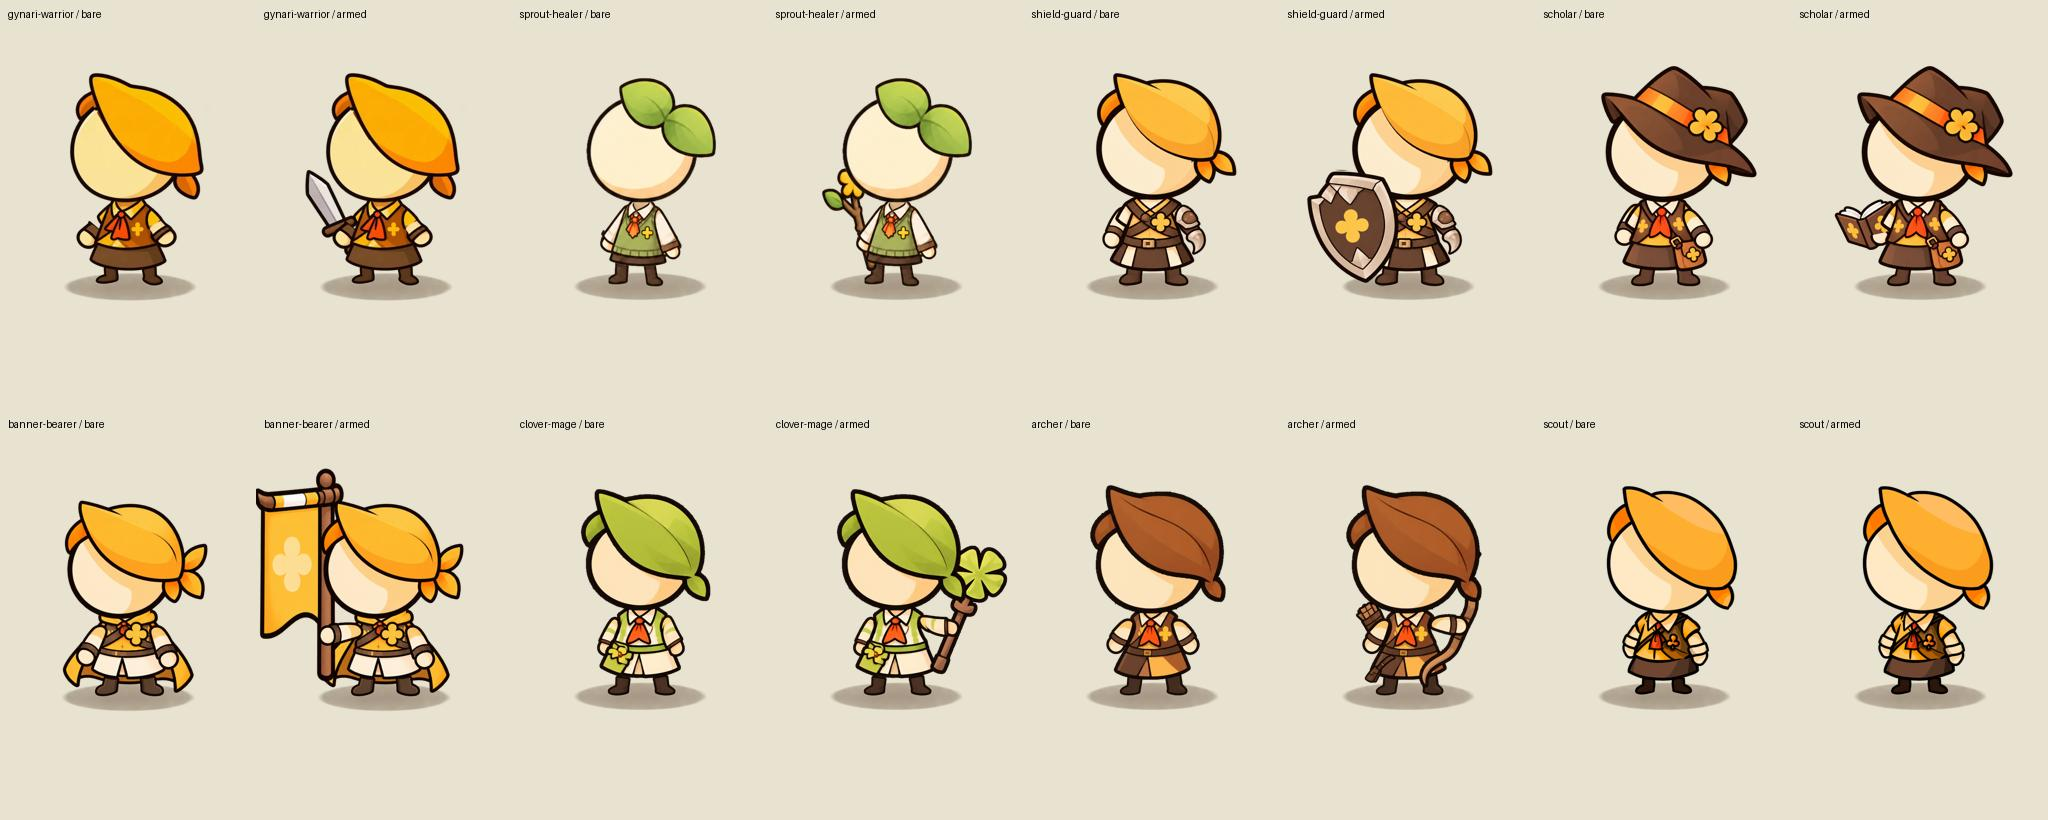
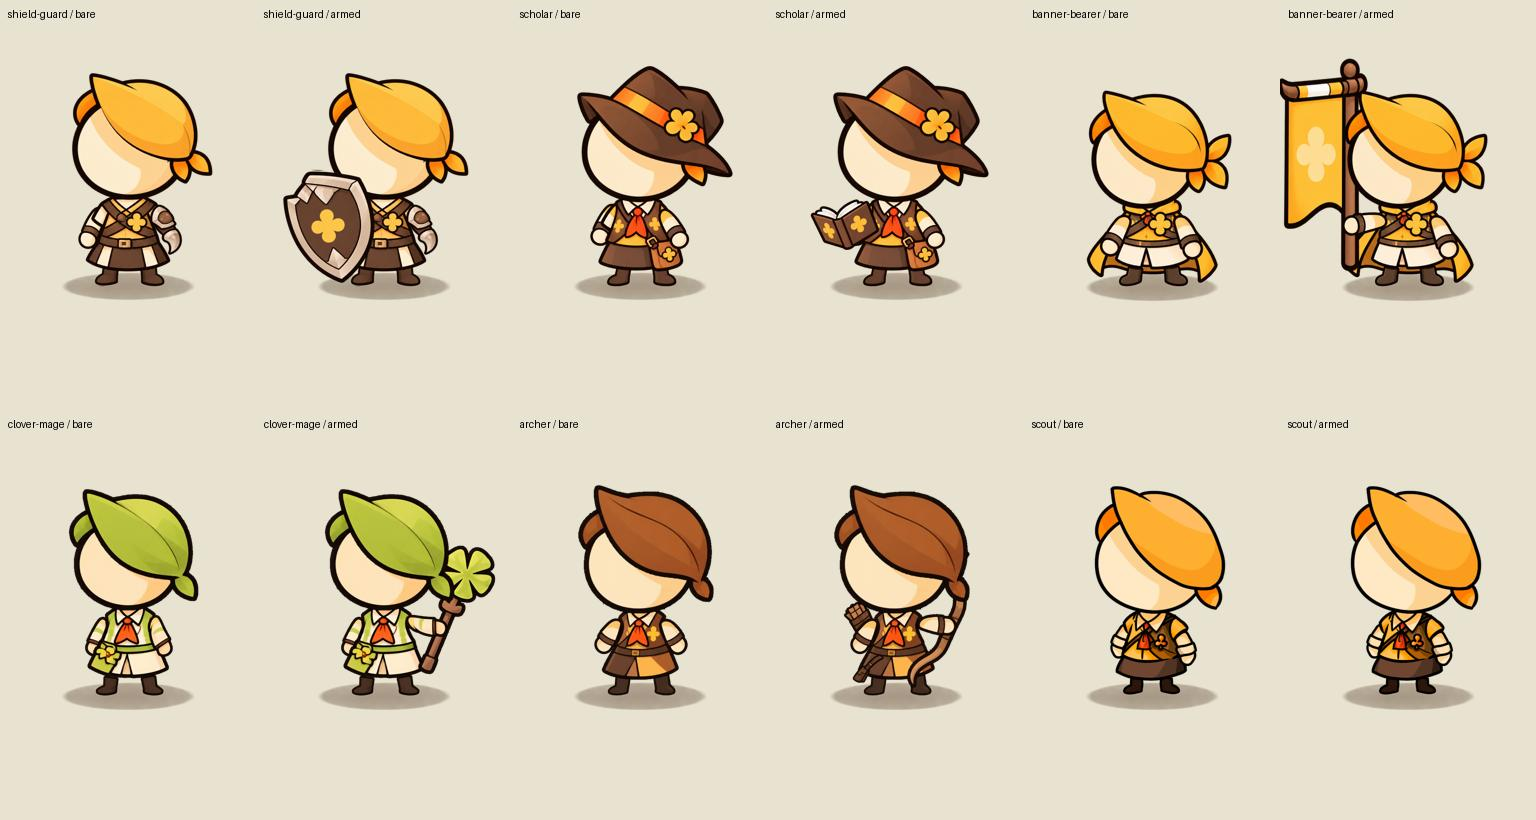
fix: render books in foreground and hide legacy heroes from current UI

diff --git a/index.html b/index.html
@@ -5,7 +5,7 @@
   <meta name="viewport" content="width=device-width, initial-scale=1, viewport-fit=cover">
   <meta name="theme-color" content="#f2e9d8">
   <title>도라가미 · 첫 번째 전장</title>
-  <link rel="icon" type="image/webp" href="./assets/units/gynari-warrior/head_deco.webp">
+  <link rel="icon" type="image/png" href="./assets/units/shield-guard/head_deco_overlay.png">
   <link rel="stylesheet" href="./src/style.css">
 </head>
 <body>
@@ -25,9 +25,9 @@
   <footer class="command-area">
     <p id="notice" role="status" aria-live="polite">전장을 준비하고 있어요…</p>
     <div class="command-bar">
-      <div class="selection"><img src="./assets/units/gynari-warrior/head_deco.webp" alt="" class="selection-icon"><div><strong id="selection-name">용사를 선택하세요</strong><small id="selection-detail">용사를 누른 뒤 원하는 칸으로 이동</small></div></div>
-      <div class="actions"><select id="character-type" aria-label="소환할 캐릭터"><option value="gynari-warrior">개나리용사</option><option value="sprout-healer">새싹힐러</option></select>
-        <button id="summon" class="primary" aria-label="개나리용사 소환" aria-pressed="false"><span>＋</span> 소환</button>
+      <div class="selection"><img src="./assets/units/shield-guard/head_deco_overlay.png" alt="" class="selection-icon"><div><strong id="selection-name">용사를 선택하세요</strong><small id="selection-detail">용사를 누른 뒤 원하는 칸으로 이동</small></div></div>
+      <div class="actions"><select id="character-type" aria-label="소환할 캐릭터"><option value="shield-guard">방패수호자</option></select>
+        <button id="summon" class="primary" aria-label="방패수호자 소환" aria-pressed="false"><span>＋</span> 소환</button>
         <button id="attack" aria-label="공격" aria-pressed="false" disabled><span>⚔</span> 공격</button>
         <button id="terrain" title="선택한 칸의 지형 변경" hidden>흙으로</button>
         <button id="reset" class="subtle" aria-label="초기화" title="초기화">↺</button>

diff --git a/tests/rig-editor-browser.py b/tests/rig-editor-browser.py
@@ -10,26 +10,26 @@ with sync_playwright() as p:
  page.goto(BASE+'/rig-editor.html');page.get_by_text('원본에서 시작',exact=True).wait_for()
  page.locator('#x').fill('300');page.locator('#x').press('Tab');page.wait_for_timeout(250)
  with page.expect_download() as info:page.locator('#export-one').click()
- dl=info.value;dl.save_as(str(WORK/'editor-one.json'));data=json.load(open(str(WORK/'editor-one.json')));assert data['characters']['gynari-warrior']['parts']['head']['x']==300
+ dl=info.value;dl.save_as(str(WORK/'editor-one.json'));data=json.load(open(str(WORK/'editor-one.json')));assert data['characters']['shield-guard']['parts']['head']['x']==300
  page.locator('#undo').click();assert float(page.locator('#x').input_value())!=300
  page.locator('#redo').click();assert float(page.locator('#x').input_value())==300
- page.locator('#done').click();assert page.locator('#character').input_value()=='sprout-healer'
+ page.locator('#done').click();assert page.locator('#character').input_value()=='scholar'
  page.locator('#target').select_option('group:neck');page.locator('#rotation').fill('12');page.locator('#rotation').press('Tab')
  with page.expect_download() as info:page.locator('#export-all').click()
- info.value.save_as(str(WORK/'editor-all.json'));all=json.load(open(str(WORK/'editor-all.json')));assert len(all['characters'])==8;assert 'gynari-warrior' in all['completed']
+ info.value.save_as(str(WORK/'editor-all.json'));all=json.load(open(str(WORK/'editor-all.json')));assert len(all['characters'])==6;assert 'shield-guard' in all['completed']
  page.locator('#target').select_option('group:neck')
  box=page.locator('#editor-canvas').bounding_box();page.mouse.move(box['x']+box['width']*.5,box['y']+box['height']*.45);page.mouse.down();page.mouse.move(box['x']+box['width']*.5+35,box['y']+box['height']*.45+15,steps=5);page.mouse.up();assert page.locator('#target').input_value()=='group:neck';assert abs(float(page.locator('#x').input_value()))>5
  page.wait_for_timeout(250)
  page.screenshot(path=str(WORK/'editor-desktop.png'),full_page=True)
- page.reload();page.get_by_text('이전 작업 복원됨',exact=True).wait_for();assert page.locator('#character').input_value()=='sprout-healer'
- page.locator('#import').set_input_files(str(WORK/'editor-all.json'));page.get_by_text('8종의 수정 데이터를 불러왔습니다.',exact=True).wait_for()
- page.locator('#character').select_option('gynari-warrior');page.locator('#target').select_option('part:head');page.locator('#guides').uncheck()
+ page.reload();page.get_by_text('이전 작업 복원됨',exact=True).wait_for();assert page.locator('#character').input_value()=='scholar'
+ page.locator('#import').set_input_files(str(WORK/'editor-all.json'));page.get_by_text('6종의 수정 데이터를 불러왔습니다.',exact=True).wait_for()
+ page.locator('#character').select_option('shield-guard');page.locator('#target').select_option('part:head');page.locator('#guides').uncheck()
  page.locator('#rotation').fill('15');page.locator('#rotation').press('Tab');before=page.locator('#editor-canvas').screenshot()
  pivot=float(page.locator('#pivot-x').input_value());page.locator('#pivot-x').fill(str(pivot+30));page.locator('#pivot-x').press('Tab');after=page.locator('#editor-canvas').screenshot()
  difference=ImageStat.Stat(ImageChops.difference(Image.open(io.BytesIO(before)).convert('RGB'),Image.open(io.BytesIO(after)).convert('RGB')))
  assert max(difference.mean)<.2, difference.mean
  page.locator('#target').select_option('group:upper');assert float(page.locator('#pivot-x').input_value())>100;assert float(page.locator('#pivot-y').input_value())>100
- page.locator('#recommended').click();page.locator('#holding-mode').select_option('both');assert page.locator('[data-slot="right"]').is_disabled();page.locator('#target').select_option('equipment:basic_sword:left')
+ page.locator('#recommended').click();page.locator('[data-slot="left"]').select_option('basic_sword');page.locator('#holding-mode').select_option('both');assert page.locator('[data-slot="right"]').is_disabled();page.locator('#target').select_option('equipment:basic_sword:left')
  with page.expect_download() as info:page.locator('#export-one').click()
  info.value.save_as(str(WORK/'two-hand.json'));page.locator('#import').set_input_files(str(WORK/'two-hand.json'));page.get_by_text('1종의 수정 데이터를 불러왔습니다.',exact=True).wait_for()
  assert page.locator('#holding-mode').input_value()=='both';assert page.locator('[data-slot="right"]').is_disabled()

diff --git a/tests/characters-browser.py b/tests/characters-browser.py
@@ -1,4 +1,4 @@
-"""Independent preview loadouts and healer board integration."""
+"""Independent visible preview loadouts and board integration."""
 import os
 from playwright.sync_api import sync_playwright
 BASE=os.environ.get('BASE_URL','http://127.0.0.1:8001')
@@ -8,21 +8,21 @@ with sync_playwright() as p:
  page.on('pageerror',lambda e:errors.append(str(e)))
  page.on('request',lambda r:requests.append(r.url))
  page.goto(BASE+'/characters.html');page.get_by_text('각 캐릭터의 동작과 장비',exact=False).wait_for()
- healer=page.locator('[data-character="sprout-healer"]');warrior=page.locator('[data-character="gynari-warrior"]')
- assert healer.locator('.left').input_value()==''
- healer.locator('.recommended').click();assert healer.locator('.left').input_value()=='sprout_staff'
- assert warrior.locator('.left').input_value()==''
- healer.locator('.mode').select_option('both');assert healer.locator('.right').is_disabled()
+ banner=page.locator('[data-character="banner-bearer"]');guard=page.locator('[data-character="shield-guard"]')
+ assert banner.locator('.left').input_value()==''
+ banner.locator('.recommended').click();assert banner.locator('.left').input_value()=='banner_bearer_banner'
+ assert guard.locator('.left').input_value()==''
+ banner.locator('.mode').select_option('both');assert banner.locator('.right').is_disabled()
  for state in ['idle','walk','attack','hit']:
-  healer.locator('.state').select_option(state);page.wait_for_timeout(120)
- healer.locator('.facing').select_option('-1');healer.locator('.clear').click();assert healer.locator('.left').input_value()==''
- warrior.locator('.left').select_option('basic_sword');warrior.locator('.right').select_option('clover_staff')
+  banner.locator('.state').select_option(state);page.wait_for_timeout(120)
+ banner.locator('.facing').select_option('-1');banner.locator('.clear').click();assert banner.locator('.left').input_value()==''
+ guard.locator('.left').select_option('basic_sword');guard.locator('.right').select_option('clover_staff')
  assert not any('/model.mjs' in r or '/render.mjs' in r for r in requests), 'preview depends on board'
  page.screenshot(path='/workspace/work/characters-preview.png',full_page=True)
  page.goto(BASE);page.get_by_text('전장 준비 완료',exact=False).wait_for()
- page.get_by_label('소환할 캐릭터').select_option('sprout-healer');page.get_by_role('button',name='새싹힐러 소환').click()
+ page.get_by_label('소환할 캐릭터').select_option('clover-mage');page.get_by_role('button',name='클로버마법사 소환').click()
  page.locator('#board').focus();page.keyboard.press('Escape');page.keyboard.press('ArrowRight');page.keyboard.press('s');page.keyboard.press('Enter')
- assert '새싹힐러 3' in page.locator('#selection-name').inner_text()
- page.screenshot(path='/workspace/work/healer-board.png')
+ assert '클로버마법사 3' in page.locator('#selection-name').inner_text()
+ page.screenshot(path='/workspace/work/clover-board.png')
  assert not errors,errors
- b.close();print('PASS character preview: standalone, unarmed, equip, dual wield, shared grip UI, independent instances; healer board summon')
+ b.close();print('PASS character preview: standalone, unarmed, equip, dual wield, shared grip UI, independent instances; clover mage board summon')

diff --git a/tests/browser.py b/tests/browser.py
@@ -24,10 +24,10 @@ with sync_playwright() as p:
     page.goto(BASE)
     page.locator('canvas').wait_for()
     page.get_by_text('전장 준비 완료', exact=False).wait_for()
-    page.get_by_role('button', name='개나리용사 소환').click()
+    page.get_by_role('button', name='방패수호자 소환').click()
     cell(page, 2, 4)
     assert page.locator('#unit-count').inner_text() == '용사 3'
-    assert '개나리용사 3' in page.locator('#selection-name').inner_text()
+    assert '방패수호자 3' in page.locator('#selection-name').inner_text()
     cell(page, 4, 4)
     assert '이동 중' in page.locator('#selection-detail').inner_text()
     page.wait_for_timeout(1000)
@@ -38,7 +38,7 @@ with sync_playwright() as p:
     cell(page, 5, 3)
     assert '피격 1회' in page.locator('#selection-detail').inner_text()
     # A drag while summoning must move the camera without adding a unit.
-    page.get_by_role('button', name='개나리용사 소환').click()
+    page.get_by_role('button', name='방패수호자 소환').click()
     start=point(page,1,3)
     page.mouse.move(*start);page.mouse.down();page.mouse.move(start[0]+90,start[1]+30,steps=10);page.mouse.up()
     assert page.locator('#unit-count').inner_text() == '용사 3'
@@ -60,7 +60,7 @@ with sync_playwright() as p:
     page.get_by_role('button',name='초기화',exact=True).click()
     cell(page,0,3)
     assert page.locator('#selection-detail').inner_text() == '잔디 블럭'
-    page.get_by_role('button',name='개나리용사 소환').click();cell(page,2,2)
+    page.get_by_role('button',name='방패수호자 소환').click();cell(page,2,2)
     assert page.locator('#unit-count').inner_text() == '용사 2'
     # Canvas keyboard controls offer the same select/place flow.
     page.locator('#board').focus();page.keyboard.press('Escape');page.keyboard.press('ArrowRight');page.keyboard.press('s');page.keyboard.press('Enter')
@@ -73,7 +73,7 @@ with sync_playwright() as p:
     mobile = browser.new_context(viewport={'width':390,'height':844},is_mobile=True,has_touch=True,device_scale_factor=2)
     page=mobile.new_page();page.on('pageerror',lambda e:errors.append(str(e)))
     page.goto(BASE);page.get_by_text('전장 준비 완료',exact=False).wait_for()
-    page.get_by_role('button',name='개나리용사 소환').tap();cell(page,2,4,True)
+    page.get_by_role('button',name='방패수호자 소환').tap();cell(page,2,4,True)
     assert page.locator('#unit-count').inner_text()=='용사 3'
     cell(page,4,4,True);page.wait_for_timeout(1000)
     assert '5, 5' in page.locator('#selection-detail').inner_text()
@@ -91,7 +91,7 @@ with sync_playwright() as p:
     assert page.locator('#zoom-value').inner_text()!=old
     assert page.locator('#unit-count').inner_text()=='용사 3'
     page.get_by_role('button',name='전장 맞춤').tap()
-    page.get_by_role('button',name='개나리용사 소환').tap()
+    page.get_by_role('button',name='방패수호자 소환').tap()
     touches('touchStart',[(180,410)])
     touches('touchMove',[(230,445)])
     touches('touchEnd',[])

diff --git a/tests/character-visibility-browser.py b/tests/character-visibility-browser.py
@@ -1,0 +1,26 @@
+"""Legacy definitions stay importable but never appear in current UI or seeds."""
+import os,json
+from playwright.sync_api import sync_playwright
+BASE=os.environ.get('BASE_URL','http://127.0.0.1:8012')
+VISIBLE=['shield-guard','scholar','banner-bearer','clover-mage','archer','scout']
+with sync_playwright() as p:
+ b=p.chromium.launch(executable_path=os.environ.get('CHROMIUM','/usr/bin/chromium'),args=['--no-sandbox'])
+ page=b.new_page();errors=[];page.on('pageerror',lambda e:errors.append(str(e)))
+ page.goto(BASE+'/characters.html');page.get_by_text('각 캐릭터의 동작과 장비',exact=False).wait_for()
+ assert page.locator('[data-character]').evaluate_all('(cards)=>cards.map(c=>c.dataset.character)')==VISIBLE
+ page.goto(BASE);page.get_by_text('전장 준비 완료',exact=False).wait_for()
+ assert page.locator('#character-type option').evaluate_all('(options)=>options.map(o=>o.value)')==VISIBLE
+ for moves,name in [(['ArrowRight']*2+['ArrowDown']*2,'방패수호자 1'),(['ArrowRight']*5+['ArrowDown']*3,'꽃잎학자 2')]:
+  page.locator('#board').focus();page.keyboard.press('Escape')
+  for key in moves:page.keyboard.press(key)
+  page.keyboard.press('Enter');assert page.locator('#selection-name').inner_text()==name
+ page.locator('#reset').click();assert page.locator('#unit-count').inner_text()=='용사 2'
+ page.goto(BASE+'/rig-editor.html');page.get_by_text('원본에서 시작',exact=True).wait_for()
+ bundle=page.evaluate('''async()=>{const{loadCatalog}=await import('/src/characters/catalog.mjs');const{exportEdits}=await import('/src/characters/rig-edit-model.mjs');const d=exportEdits(await loadCatalog());d.activeCharacter='gynari-warrior';d.completed=['gynari-warrior'];return d;}''')
+ page.evaluate("d=>localStorage.setItem('doragami-rig-editor-v1',JSON.stringify(d))",bundle);page.reload();page.get_by_text('이전 작업 복원됨',exact=True).wait_for()
+ assert page.locator('#character option').evaluate_all('(options)=>options.map(o=>o.value)')==VISIBLE
+ assert page.locator('#character').input_value()=='shield-guard'
+ page.locator('#import').set_input_files({'name':'old-all.json','mimeType':'application/json','buffer':json.dumps(bundle).encode()});page.get_by_text('8종의 수정 데이터를 불러왔습니다.',exact=True).wait_for()
+ assert page.locator('#character').input_value()=='shield-guard'
+ assert not errors,errors
+ b.close();print('PASS visibility: 6 UI types, visible starting units, legacy draft/import fallback, legacy definitions retained')

diff --git a/tests/selected-pack-browser.py b/tests/selected-pack-browser.py
@@ -1,4 +1,4 @@
-"""Eight-type catalog, selected pack physical assembly and summon regressions."""
+"""Six visible heroes, selected pack physical assembly and summon regressions."""
 import os
 from playwright.sync_api import sync_playwright
 BASE=os.environ.get('BASE_URL','http://127.0.0.1:8002')
@@ -8,7 +8,7 @@ with sync_playwright() as p:
  page=b.new_page(viewport={'width':1280,'height':900});errors=[]
  page.on('pageerror',lambda e:errors.append(str(e)))
  page.goto(BASE+'/characters.html');page.get_by_text('각 캐릭터의 동작과 장비',exact=False).wait_for()
- assert page.locator('#cards article').count()==8
+ assert page.locator('#cards article').count()==6
  for id in NEW:
   card=page.locator(f'[data-character="{id}"]');card.locator('.recommended').click()
   for state in ['idle','walk','attack','hit']:
@@ -29,10 +29,10 @@ with sync_playwright() as p:
  }''')
  assert not failures,'\n'.join(failures)
  page.goto(BASE);page.get_by_text('전장 준비 완료',exact=False).wait_for()
- assert page.locator('#character-type option').count()==8
+ assert page.locator('#character-type option').count()==6
  for id in NEW:
   page.locator('#reset').click();page.locator('#character-type').select_option(id);page.locator('#board').focus();page.keyboard.press('Escape');page.keyboard.press('ArrowRight');page.keyboard.press('s');page.keyboard.press('Enter')
   assert page.locator('#unit-count').inner_text()=='용사 3'
   assert '3' in page.locator('#selection-name').inner_text()
  assert not errors,errors
- b.close();print('PASS selected pack: 8 catalog types, 6 summons, both facings, 4 animations, physical head/limb overlap')
+ b.close();print('PASS selected pack: 6 visible types, 6 summons, both facings, 4 animations, physical head/limb overlap')

diff --git a/README.md b/README.md
@@ -1,12 +1,12 @@
 # 도라가미 · 첫 번째 전장
 
-승인된 잔디·흙 입체 타일과 개나리용사 파츠로 만든 플레이 가능한 2.5D 전장입니다. 별도 패키지 설치·빌드·백엔드 없이 정적 호스팅으로 실행합니다.
+승인된 잔디·흙 입체 타일과 파츠 조립 캐릭터로 만든 플레이 가능한 2.5D 전장입니다. 별도 패키지 설치·빌드·백엔드 없이 정적 호스팅으로 실행합니다.
 
 Vercel에서는 Framework Preset을 **Other**, Output Directory를 **.**으로 설정하고 Build Command를 비웁니다. 저장소 루트의 `index.html`이 진입점입니다. GitHub Pages 등 일반 정적 호스팅도 사용할 수 있습니다. 모든 게임 이미지가 저장소에 포함되어 외부 이미지 호스트나 API 키가 필요하지 않습니다. 로컬 미리보기는 기존 정적 파일 미리보기 도구에서 저장소 루트를 열면 됩니다. ES 모듈과 이미지 설정을 불러오므로 `file://`로 직접 열지는 않습니다.
 
 플레이 방법:
 
-- **소환**을 누르고 빈칸을 선택합니다. 시작 시 개나리용사와 새싹힐러가 배치됩니다. 캐릭터 선택으로 소환할 종류를 바꿀 수 있습니다.
+- **소환**을 누르고 빈칸을 선택합니다. 시작 시 방패수호자와 꽃잎학자가 배치됩니다. 캐릭터 선택으로 소환할 종류를 바꿀 수 있습니다. 기존 개나리용사·새싹힐러는 숨김 상태로 보관하며 현재 목록에는 새 캐릭터 6종을 표시합니다.
 - 용사를 선택하고 빈칸을 누르면 다른 용사를 피해 한 칸씩 걸어갑니다.
 - **공격**을 누른 뒤 다른 용사를 선택합니다. 멀리 있으면 인접한 칸까지 이동한 뒤 검을 휘두릅니다. 검의 명중과 상대의 피격 반응이 연결됩니다.
 - 마우스/한 손가락 드래그로 보드 이동, 휠/두 손가락 핀치로 확대·축소합니다. 오른쪽 버튼으로 확대, 축소, 전장 맞춤을 할 수도 있습니다.
@@ -37,6 +37,7 @@ BASE_URL=https://your-static-host.example python3 tests/rig-browser.py
 BASE_URL=https://your-static-host.example python3 tests/characters-browser.py
 BASE_URL=https://your-static-host.example python3 tests/rig-editor-browser.py
 BASE_URL=https://your-static-host.example python3 tests/equipment-grips-browser.py
+BASE_URL=https://your-static-host.example python3 tests/character-visibility-browser.py
 ```
 
 브라우저 검증은 기본적으로 `/usr/bin/chromium`을 사용합니다. 다른 설치 경로는 `CHROMIUM`, 호스팅 주소는 `BASE_URL` 환경 변수로 지정할 수 있습니다. 데스크톱과 모바일 터치에서 소환·선택·실제 보행·공격·피격·드래그·핀치·초기화, 지형 변경, 이미지 누락 안내를 검사합니다. 모바일 레이아웃 검증은 다섯 화면 크기에서 확대·이동해도 전장이 헤더·조작부 영역을 침범하지 않는지, 화면 높이가 바뀌어도 배치가 유지되는지 검사합니다.

diff --git a/docs/rig-editor.md b/docs/rig-editor.md
@@ -40,6 +40,8 @@ node --test tests/*.test.mjs
 
 추가 검증: `BASE_URL=http://127.0.0.1:8010 python3 tests/equipment-grips-browser.py`. 실제 장비 이미지에서 주·보조 손잡이 좌표가 투명 영역을 벗어나지 않는지 검사합니다. 최신 맨손·권장 장착 렌더링은 `rig-hand-equipment-review.jpg`에 보관합니다.
 
-왼쪽을 바라볼 때 화면 왼쪽에 보이는 오른팔은 리그의 `leftArm`/`hand_back`입니다. 깃발기수를 제외하면 이 묶음은 몸통 바로 뒤에 그립니다. 깃발기수는 몸통 앞 순서를 유지합니다. 방패는 장비의 `drawLayer: foreground`로 캐릭터 파츠보다 앞에 그리며, 캐릭터 종류나 장착 손을 바꿔도 이 예외가 유지됩니다. 손잡이 행렬과 애니메이션은 기존 손 연결을 따릅니다.
+왼쪽을 바라볼 때 화면 왼쪽에 보이는 오른팔은 리그의 `leftArm`/`hand_back`입니다. 깃발기수를 제외하면 이 묶음은 몸통 바로 뒤에 그립니다. 깃발기수는 몸통 앞 순서를 유지합니다. 방패와 책은 장비의 `drawLayer: foreground`로 캐릭터 파츠보다 앞에 그리며, 캐릭터 종류나 장착 손을 바꿔도 이 예외가 유지됩니다. 손잡이 행렬과 애니메이션은 기존 손 연결을 따릅니다.
+
+개나리용사·새싹힐러는 숨김 처리해 현재 편집 목록과 전체 내보내기에는 새 캐릭터 6종만 포함합니다. 예전 8종 JSON과 임시 저장은 계속 불러올 수 있으며, 마지막 선택이 숨긴 캐릭터라면 표시 가능한 캐릭터에서 재개합니다.
 
 이전 임시 저장은 예전 좌우 파츠 경로를 담고 있을 수 있습니다. 최신 교정 JSON을 불러오거나 원본에서 시작하면 현재 리그로 편집할 수 있습니다.

diff --git a/docs/character-engine.md b/docs/character-engine.md
@@ -8,7 +8,7 @@
 import {loadCatalog} from './src/characters/catalog.mjs';
 import {createCharacter, equip, unequip, drawCharacter} from './src/characters/engine.mjs';
 const catalog = await loadCatalog();
-const hero = createCharacter(catalog, 'sprout-healer'); // 양손 모두 빈 상태
+const hero = createCharacter(catalog, 'clover-mage'); // 양손 모두 빈 상태
 // recommendedWeapon은 표시용 추천 정보이며 생성 시 장착하지 않습니다.
 equip(catalog, hero, 'clover_staff', 'left');
 equip(catalog, hero, 'basic_sword', 'right'); // 서로 다른 무기
@@ -25,6 +25,8 @@ ctx.restore();
 ```
 
 `equipment`, `appearance.parts`, `appearance.animations`, `animation`은 인스턴스 소유입니다. 기본 애셋과 정의는 카탈로그에서 공유하고 렌더러는 수정하지 않습니다. `appearance.parts`는 리그의 파츠 이름을 같은 캐릭터 이미지 목록의 다른 이름으로 매핑합니다. `animation`에는 state, elapsed(초), facing, phase, 선택적 attackVector가 있습니다. UI/시뮬레이션이 시간을 갱신합니다.
+
+캐릭터 등록 정보의 `hidden: true`는 소환·연구실·편집기와 초기 배치에서 제외합니다. 표시 목록은 `visibleCharacters(catalog)`로 얻습니다. 카탈로그는 숨긴 리그와 이미지를 보존하므로 이전 데이터와 렌더링 API는 계속 사용할 수 있습니다. 현재 개나리용사와 새싹힐러가 이 상태입니다.
 
 왼손/오른손은 캐릭터 기준이며 좌우 반전에도 유지됩니다. 양손 무기를 한 손에서 교체하거나 해제하면 이전 공유 장착을 두 손에서 함께 제거합니다. 유효하지 않은 장착 요청은 기존 장비를 유지한 채 오류를 냅니다.
 
